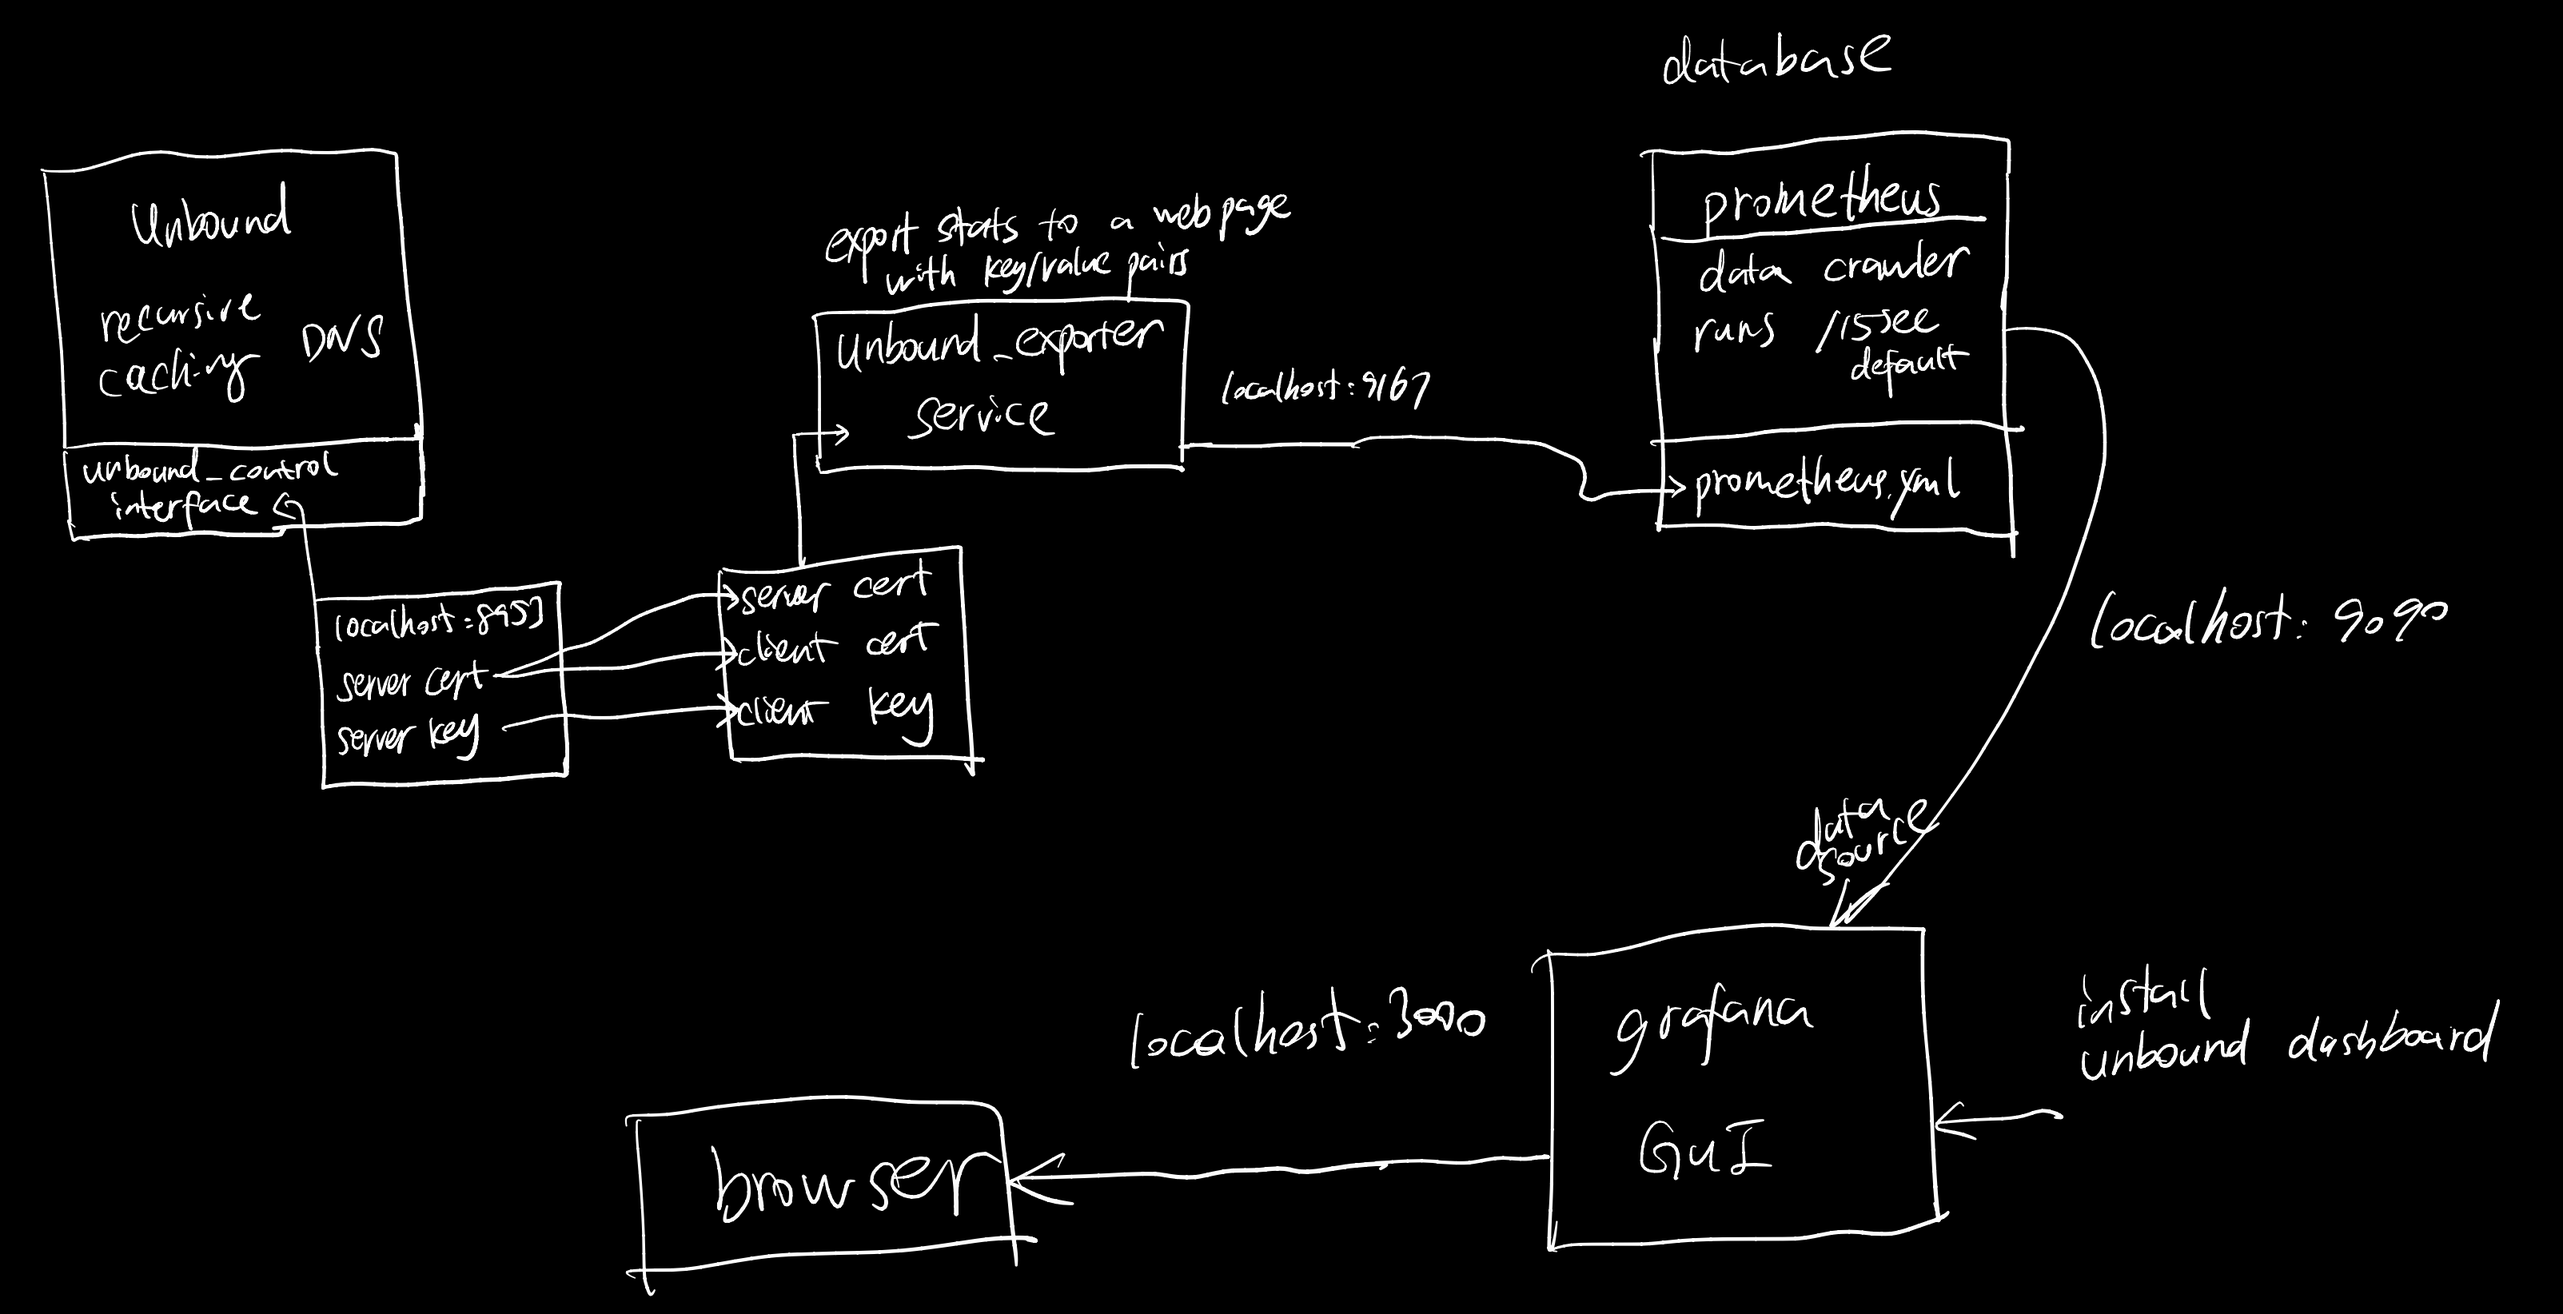
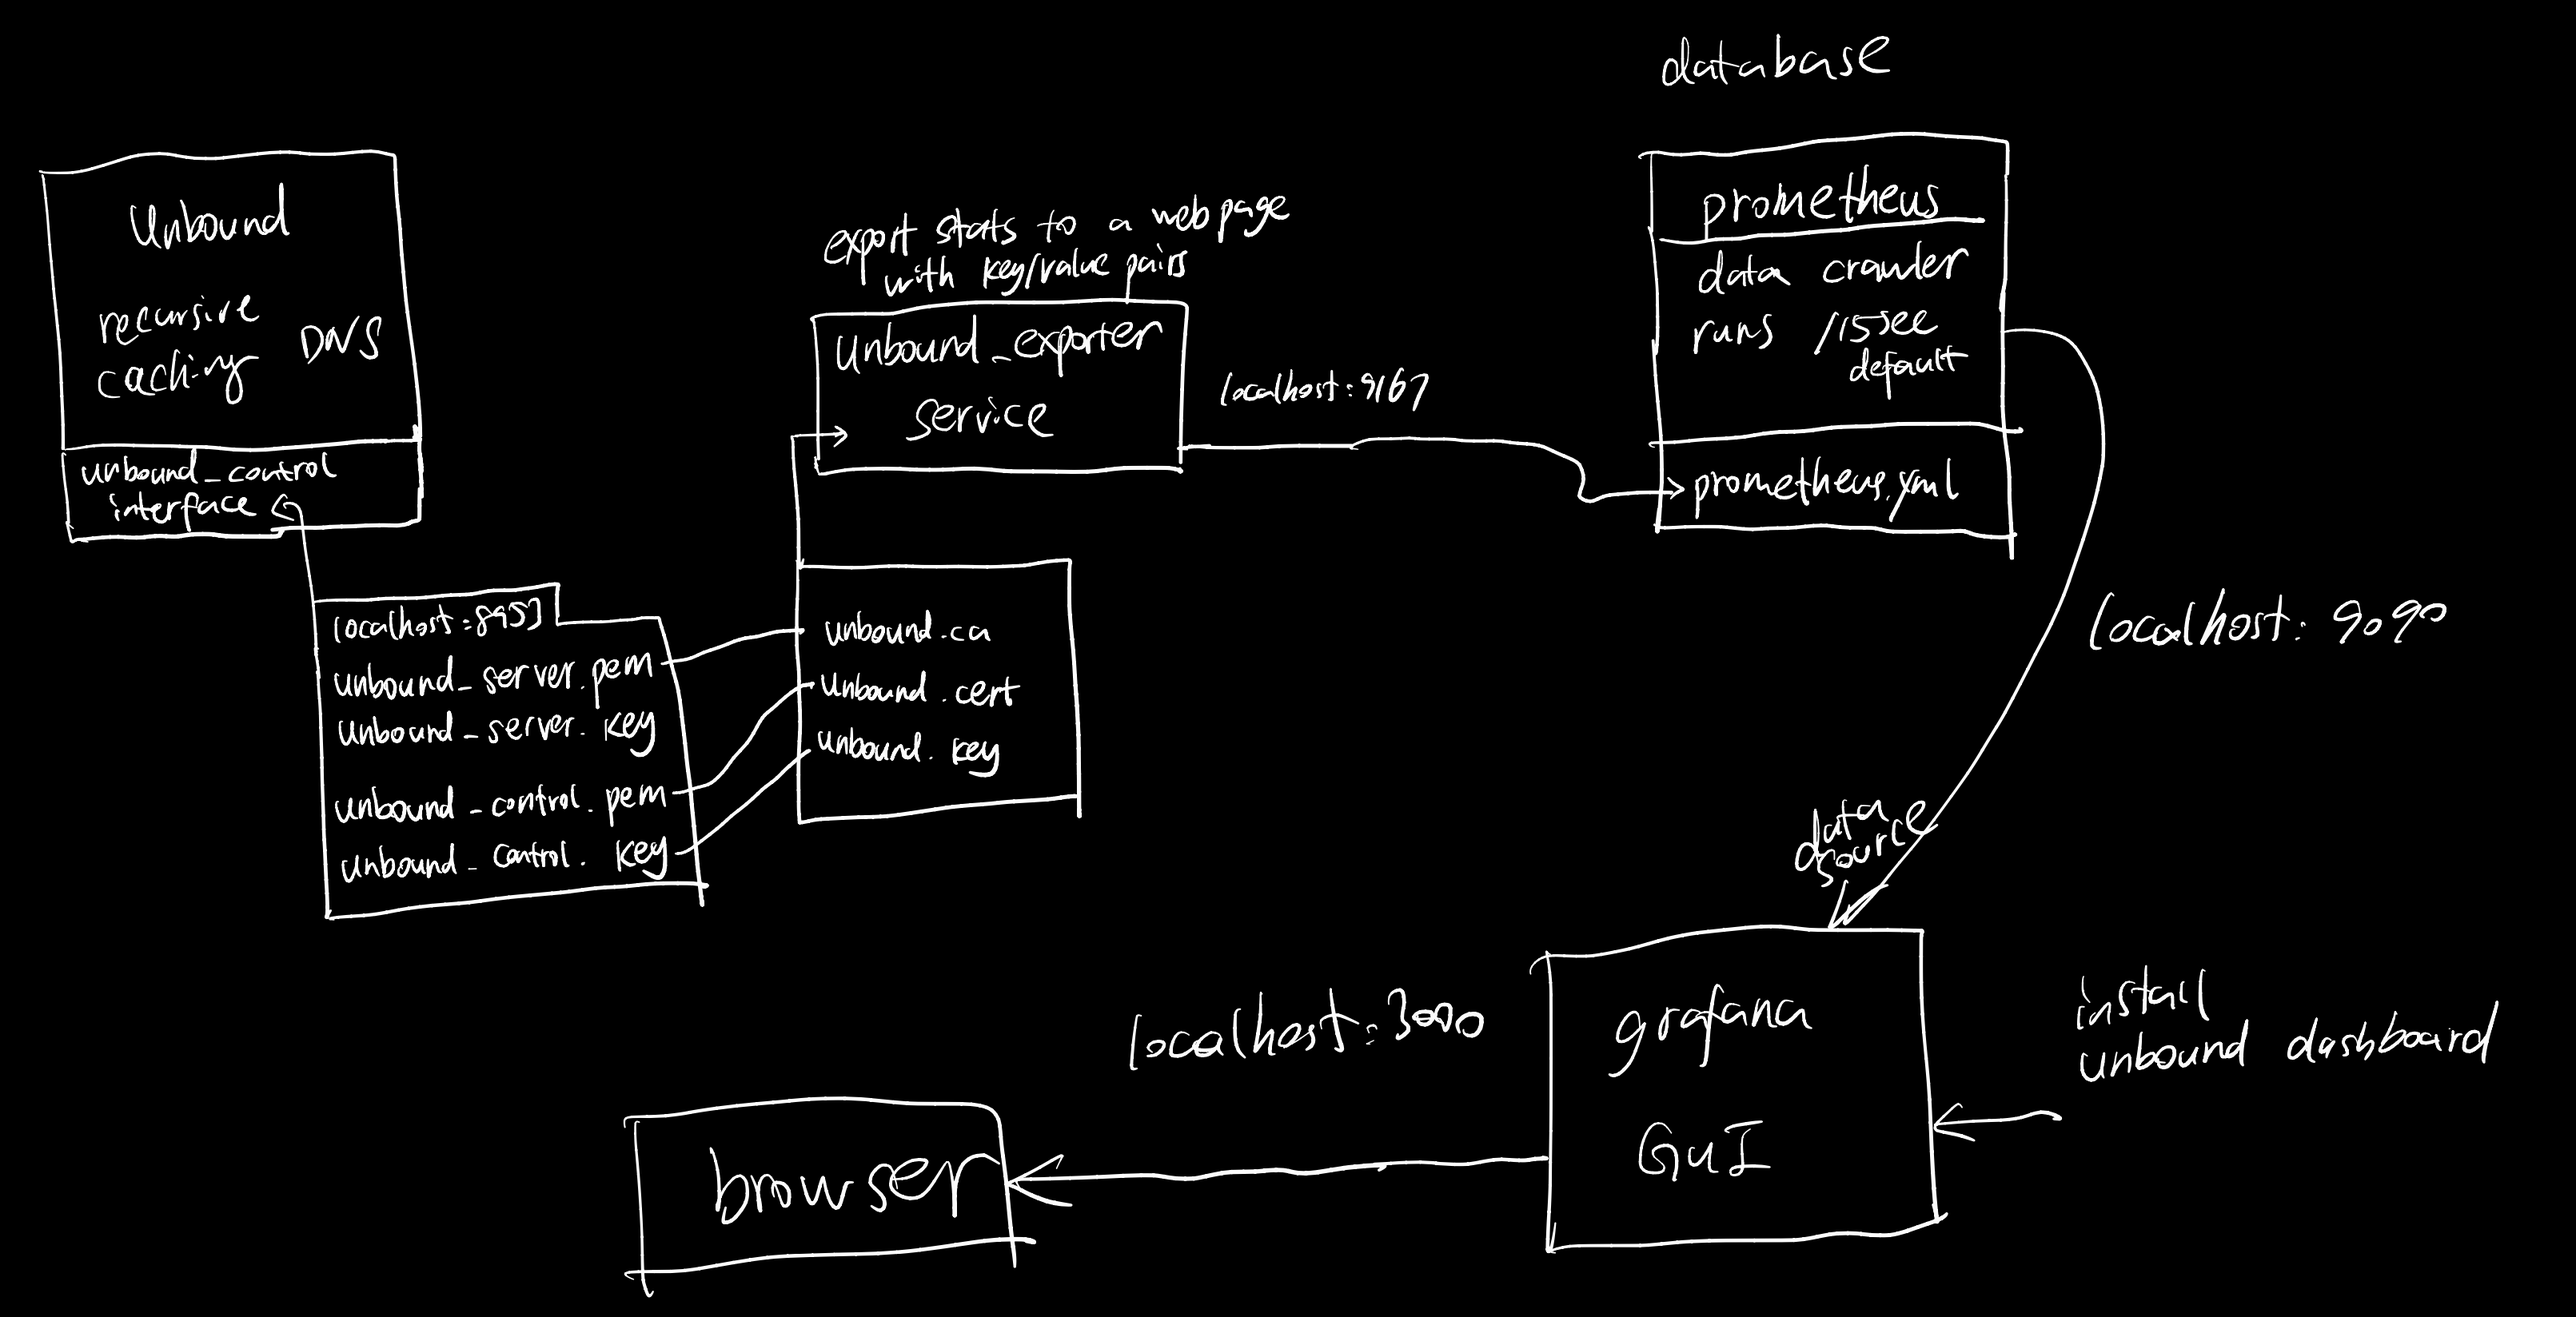
make certificate easier

diff --git a/README.md b/README.md
@@ -22,15 +22,14 @@ general installations steps for ubuntu/debian distribution
 
    details for configuring unbound can be found at https://calomel.org/unbound_dns.html
 
-   * to generate self-signing server key if you don't have any
+   * to generate self-signing certificate for unbound control interface if you don't have any under /etc/unbound
 
      ````
-     openssl req -newkey rsa:4096 -x509 -sha256 -days 3650 -nodes -out unbound.crt -keyout unbound.key
-     sudo cp unbound.crt /etc/ssl/certs/
-     sudo cp unbound.key /etc/ssl/certs/
-     sudo service unbound restart
+     sudo unbound-control-setup
      ````
-
+     
+     this will generate `unbound_server.pem`, `unbound_server.key`, `unbound_control.pem`, `unbound_control.key`
+   
 2. install Grafana
 
    * https://grafana.com/docs/grafana/latest/installation/debian/
